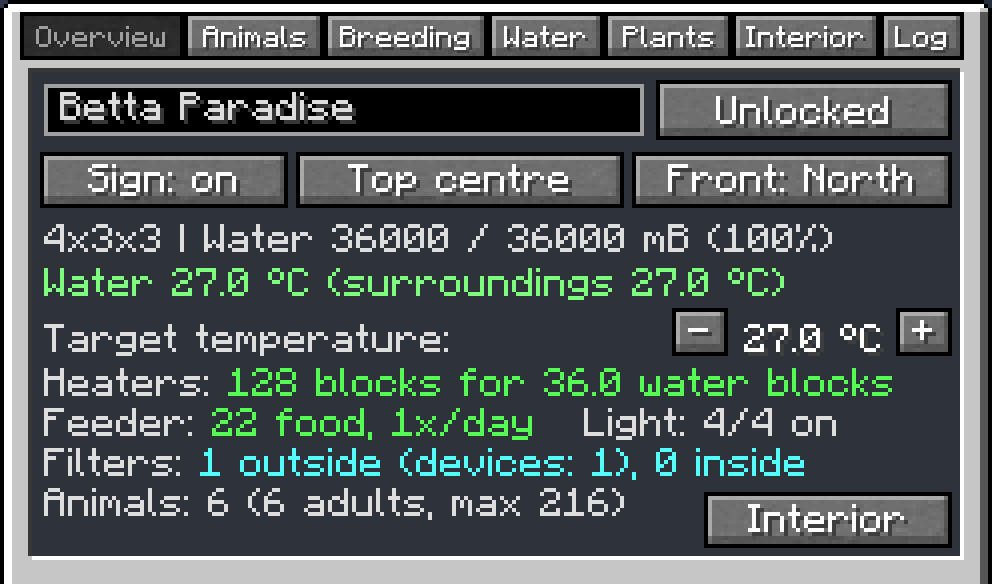
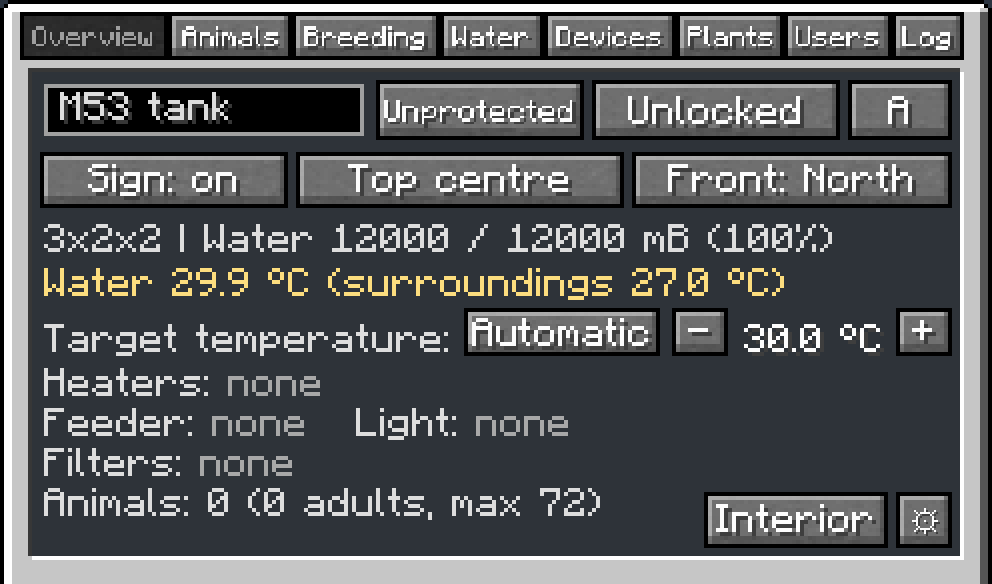
Handbook: the users tab with its picture, the overview with the gear (en, de)

diff --git a/common/src/main/resources/assets/bettacraft/guides/bettacraft/guide/_de_de/aquarium/menu.md b/common/src/main/resources/assets/bettacraft/guides/bettacraft/guide/_de_de/aquarium/menu.md
@@ -93,6 +93,8 @@ Warnung bei dichter Decke und der Knopf **Ausdünnen**.
 
 ## Nutzer
 
+![Der Nutzer-Tab](../images/menu_users.png)
+
 Der Nutzer-Tab (er hat in 1.43.0 den Innenraum-Tab ersetzt) zeigt, wer an diesem Aquarium was darf:
 
 | Rolle | Darf |

diff --git a/common/src/main/resources/assets/bettacraft/guides/bettacraft/guide/aquarium/menu.md b/common/src/main/resources/assets/bettacraft/guides/bettacraft/guide/aquarium/menu.md
@@ -88,6 +88,8 @@ warning for a dense cover and the **Thin out** button.
 
 ## Users
 
+![The users tab](../images/menu_users.png)
+
 The users tab (it replaced the interior tab in 1.43.0) lists who may do what at this aquarium:
 
 | Role | May |
